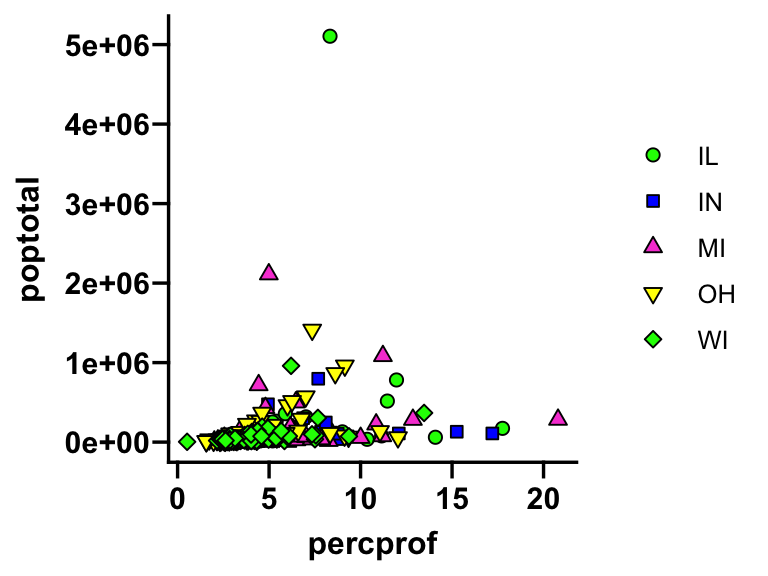
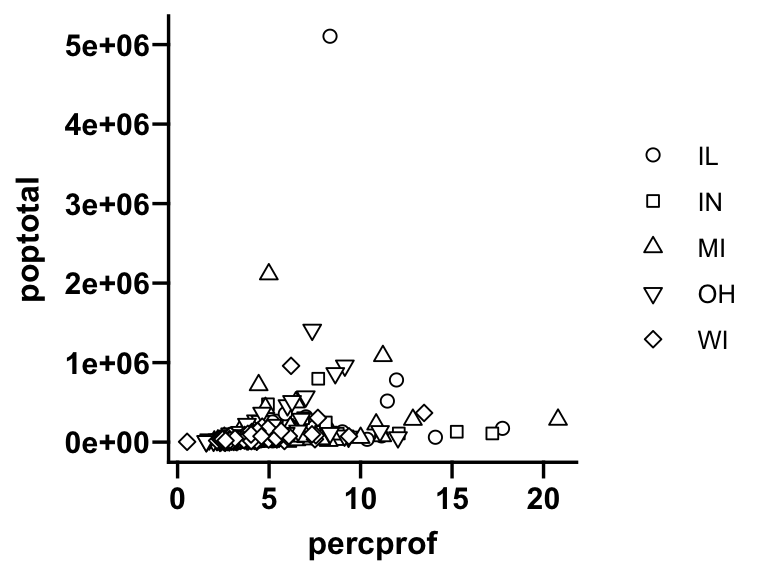
Change neon2 palette to neon

diff --git a/README.md b/README.md
@@ -39,7 +39,7 @@ p
 ### `scale_fill_prism`
 
 ``` r
-p <- p + scale_fill_prism("neon2")
+p <- p + scale_fill_prism("neon")
 p
 ```
 
